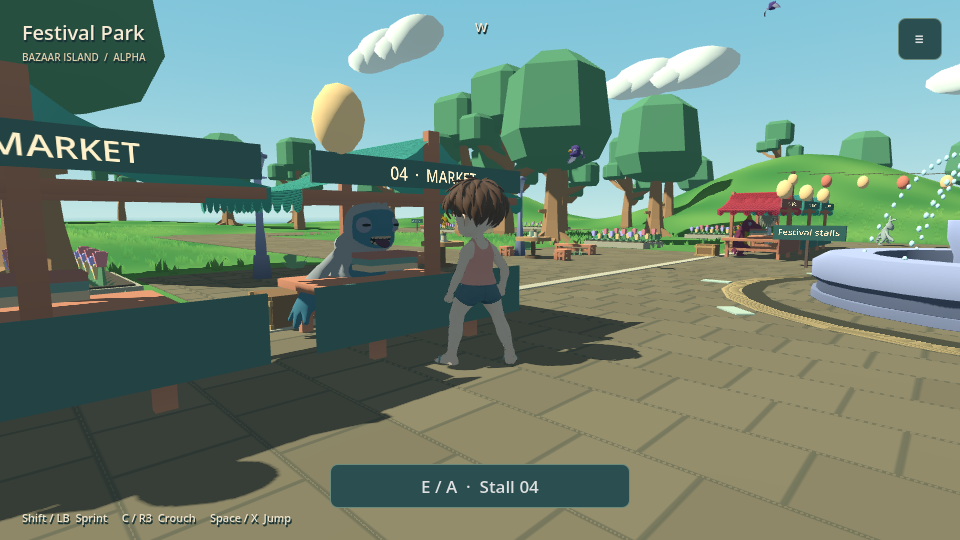
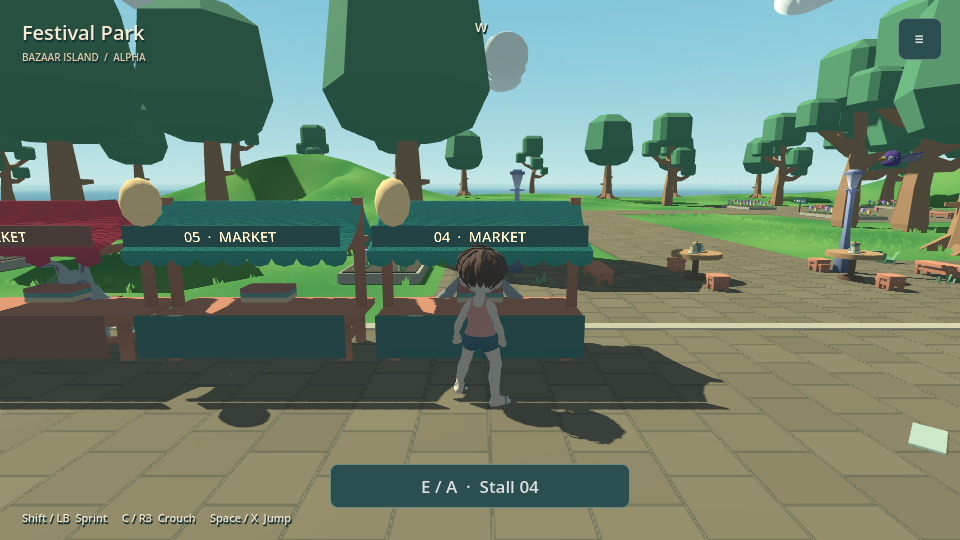
Face the actual Kenney counter toward the promenade

diff --git a/games/bazaar/docs/MOVEMENT_AND_MARKET.md b/games/bazaar/docs/MOVEMENT_AND_MARKET.md
@@ -43,7 +43,10 @@ stalls; fabric valances, counter skirts and lanterns make the front obvious.
 Homes remain in the separate town district.
 
 `Square.stall_layout(slot)` owns each physical slot's prop, seller and approach
-positions. Rental IDs and server slot numbers do not change with scenery moves.
+positions. A four-sided model inspection confirmed Kenney’s counter faces +X,
+whereas the avatar/NPC front is +Z. Prop yaw and seller yaw are therefore distinct;
+the earlier shared yaw incorrectly presented the side post to the aisle.
+Rental IDs and server slot numbers do not change with scenery moves.
 NPC routes follow the clear aisle. The catalogue cover is an actual render of
 this scene; no web photograph is bundled. The screenshots use a synthetic avatar,
 not a personal profile. Decorative folded cloth is not saleable inventory.
